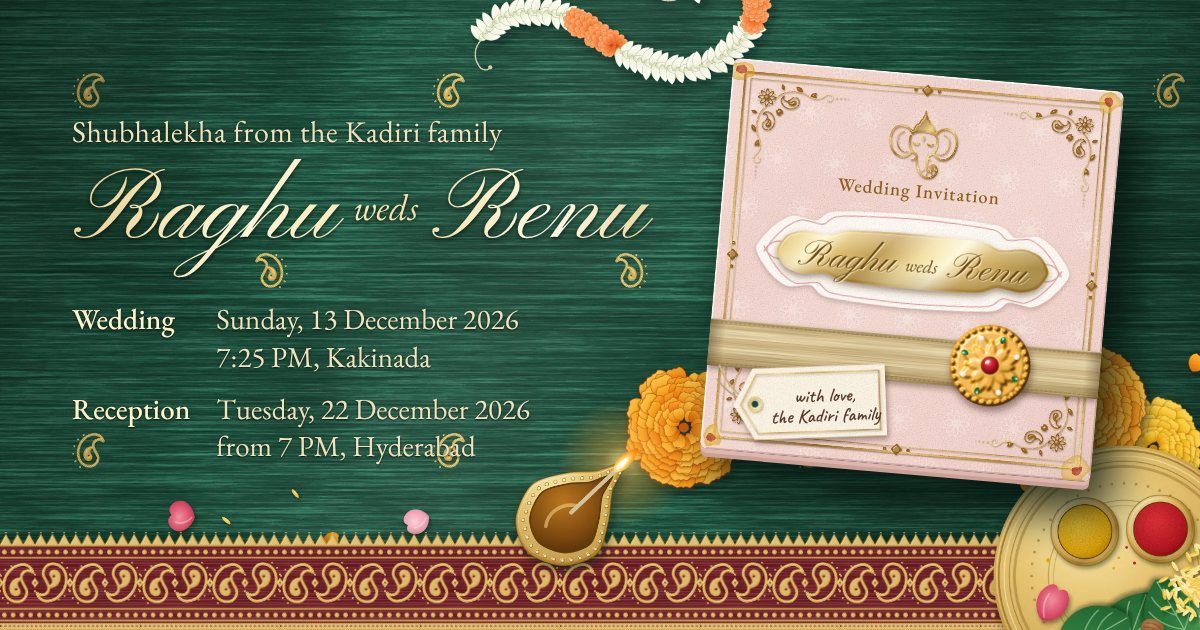
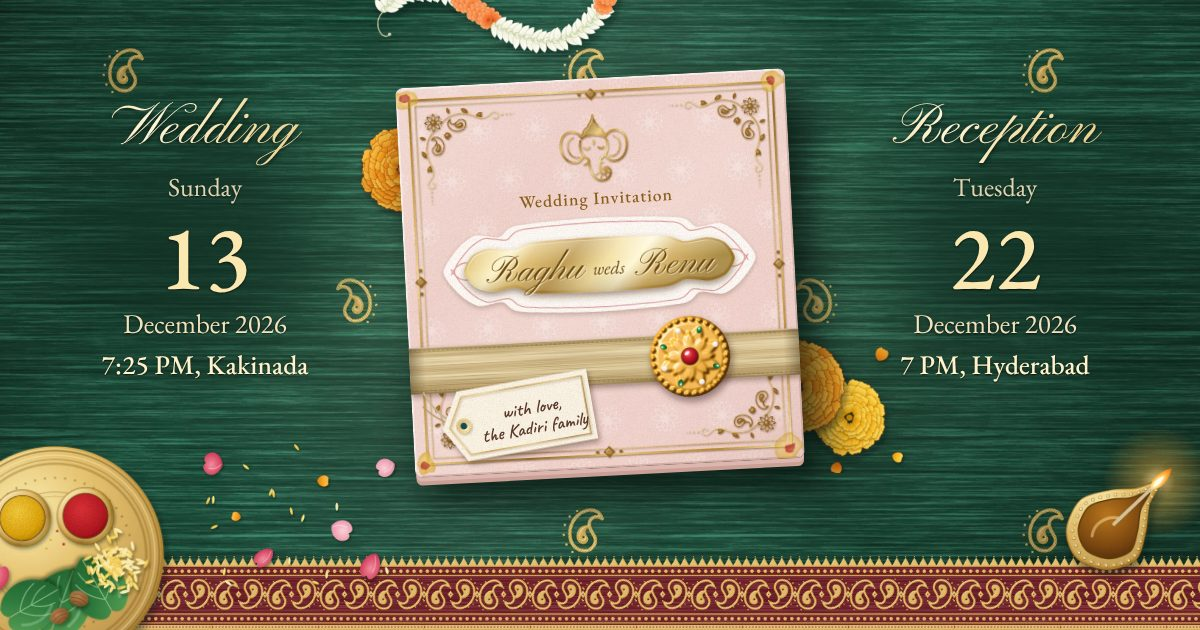
New preview image

diff --git a/index.html b/index.html
@@ -9,10 +9,11 @@
 <meta property="og:title" content="Raghu weds Renu: Shubhalekha">
 <meta property="og:description" content="Sumuhurtham: Sunday, 13 December 2026, 7:25 PM, Kakinada. Reception: Tuesday, 22 December 2026, Secunderabad. Tap to open your invitation.">
 <meta property="og:url" content="https://raghu-weds-renu.vercel.app/">
-<meta property="og:image" content="https://raghu-weds-renu.vercel.app/og.jpg">
+<meta property="og:image" content="https://raghu-weds-renu.vercel.app/og.jpg?v=2">
 <meta property="og:image:type" content="image/jpeg">
+<meta property="og:image:alt" content="Raghu weds Renu: Wedding, Sunday 13 December 2026, Kakinada. Reception, Tuesday 22 December 2026, Hyderabad">
 <meta name="twitter:card" content="summary_large_image">
-<meta name="twitter:image" content="https://raghu-weds-renu.vercel.app/og.jpg">
+<meta name="twitter:image" content="https://raghu-weds-renu.vercel.app/og.jpg?v=2">
 <meta property="og:image:width" content="1200">
 <meta property="og:image:height" content="630">
 <meta name="theme-color" content="#173B2E">
